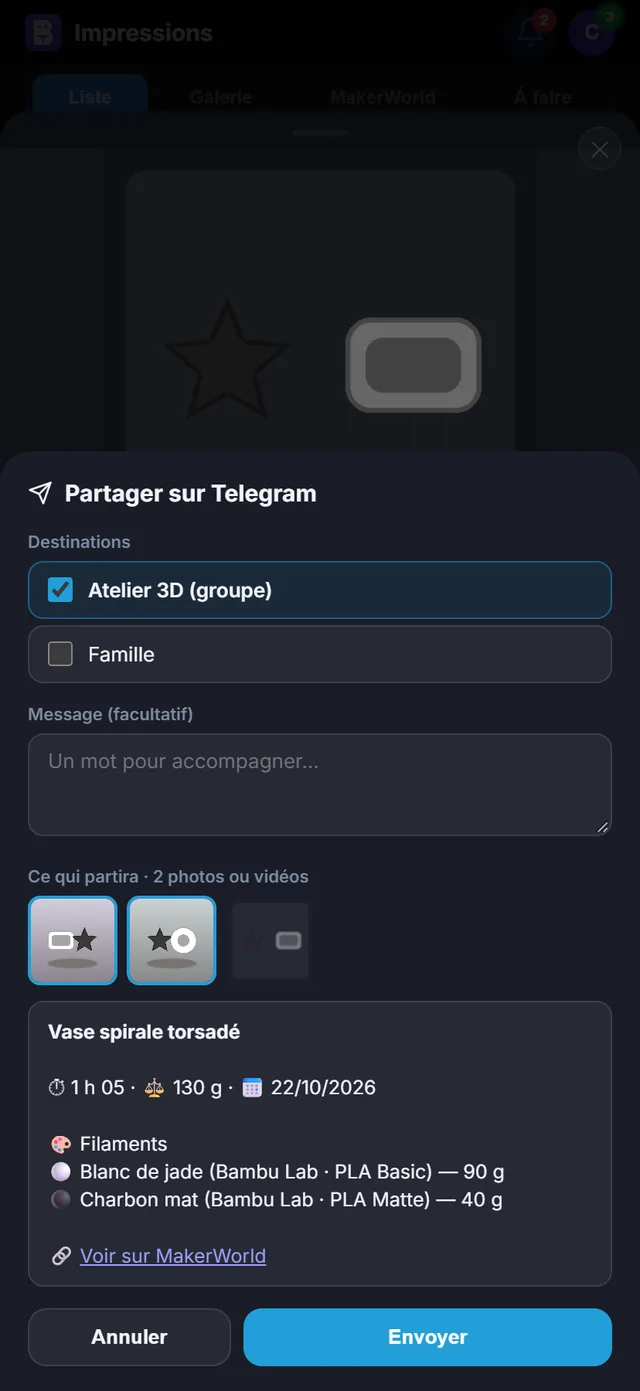
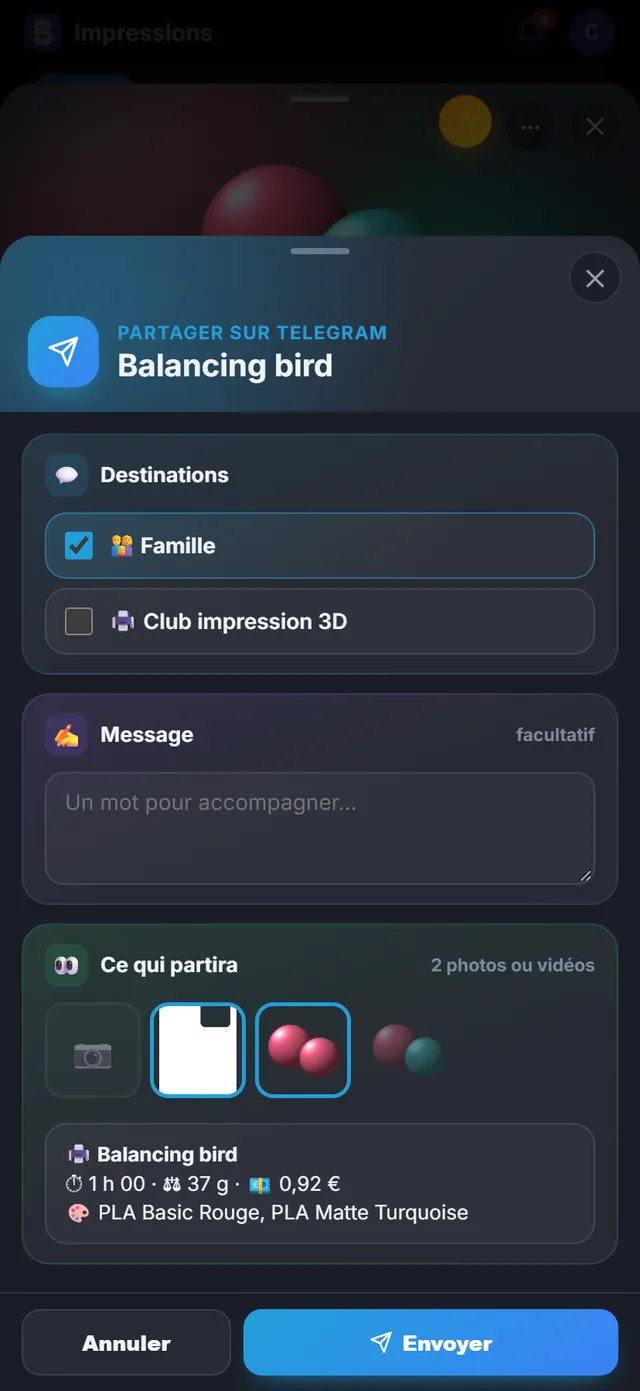
Partage Telegram : la fenêtre dans la coque des fiches (en-tête bleu Telegram, cartes Destinations, Message, Ce qui partira)

diff --git a/frontend/src/components/ShareSheet.jsx b/frontend/src/components/ShareSheet.jsx
@@ -4,6 +4,7 @@ import { createPortal } from "react-dom";
 import { Send } from "lucide-react";
 import client, { apiUrl } from "../api/client";
 import { useShares } from "../store/shares";
+import { FSheet, FCard, fBtn } from "./FicheKit";
 
 // Partage Telegram d'une impression ou d'un groupe : choix de la destination,
 // message facultatif, et APERCU exact de ce qui partira (la legende vient du
@@ -58,106 +59,100 @@ export default function ShareSheet({ kind, id, onClose }) {
   const max = preview?.album_max || 10;
   const nMedia = pick ? pick.length : preview?.media?.length || 0;
   const toggle = (mid) => setPick(p => p.includes(mid) ? p.filter(x => x !== mid) : p.length < max ? [...p, mid] : p);
-  const thumb = { width: 58, height: 58, borderRadius: 8, objectFit: "cover", cursor: "pointer", display: "block" };
+  const thumb = { width: 62, height: 62, borderRadius: 12, objectFit: "cover", cursor: "pointer", display: "block", boxSizing: "border-box" };
+  const T = "#229ED9";
+  const canSend = dests.length > 0 && !preview?.error;
   return createPortal(
-    <div onClick={onClose} style={{ position:"fixed", inset:0, zIndex:1500, background:"rgba(0,0,0,0.6)",
-      display:"flex", alignItems:"flex-end", justifyContent:"center" }}>
-      <div onClick={e => e.stopPropagation()} style={{ background:"var(--sheet-bg)", borderRadius:"20px 20px 0 0",
-        width:"100%", maxWidth:520, maxHeight:"90dvh", overflowY:"auto", padding:"16px 18px",
-        paddingBottom:"calc(16px + env(safe-area-inset-bottom,0px))" }}>
-        <h3 style={{ fontSize:15, fontWeight:800, color:"var(--text)", margin:"0 0 12px",
-          display:"flex", alignItems:"center", gap:8 }}>
-          <Send size={16}/> Partager sur Telegram
-        </h3>
+    <FSheet onClose={onClose} z={1500} bottom={<>
+      <button onClick={onClose} style={{ ...fBtn, flex: 1 }}>{done ? "Fermer" : "Annuler"}</button>
+      {canSend && <button onClick={send} disabled={busy || !sel?.length || !!done}
+        style={{ ...fBtn, flex: 2, border: "none", color: busy && !done ? "var(--muted)" : "#fff",
+          cursor: busy || done ? "default" : "pointer", opacity: !sel?.length ? .55 : 1,
+          background: done ? "linear-gradient(135deg, #22C55E, #16A34A)" : busy ? "var(--surface2)" : `linear-gradient(135deg, ${T}, #3B82F6)`,
+          boxShadow: busy ? "none" : `0 8px 18px -10px ${T}` }}>
+        <Send size={15}/> {done ? `✓ Envoyé · ${done.destination}` : busy ? "Envoi…"
+          : sel?.length > 1 ? `Envoyer à ${sel.length} destinations` : "Envoyer"}</button>}
+    </>}>
+      <div style={{ padding: "52px 18px 16px", background: `radial-gradient(circle at 15% 40%, ${T}55, transparent 60%), linear-gradient(135deg, ${T}22, transparent 70%), var(--surface2)` }}>
+        <div style={{ display: "flex", alignItems: "center", gap: 12 }}>
+          <span style={{ width: 46, height: 46, borderRadius: 15, flexShrink: 0, display: "flex", alignItems: "center", justifyContent: "center",
+            background: `linear-gradient(135deg, ${T}, #3B82F6)`, boxShadow: `0 8px 18px -8px ${T}` }}><Send size={21} color="#fff"/></span>
+          <div style={{ minWidth: 0 }}>
+            <div style={{ fontSize: 12, fontWeight: 900, letterSpacing: ".06em", textTransform: "uppercase", color: T }}>Partager sur Telegram</div>
+            <div style={{ fontSize: 20, fontWeight: 900, color: "var(--text)", lineHeight: 1.2, overflowWrap: "anywhere" }}>
+              {preview?.title || (kind === "group" ? "Ce groupe" : "Cette impression")}</div>
+          </div>
+        </div>
+      </div>
 
+      <div style={{ padding: "14px 14px 18px", display: "flex", flexDirection: "column", gap: 12 }}>
         {!preview ? (
-          <p style={{ fontSize:12, color:"var(--muted)" }}>Préparation…</p>
+          <p style={{ fontSize: 13, color: "var(--muted)", textAlign: "center", padding: 16 }}>Préparation…</p>
         ) : preview.error ? (
-          <p style={{ fontSize:12, color:"#ef4444" }}>{preview.error}</p>
+          <p style={{ fontSize: 13, fontWeight: 700, color: "#ef4444" }}>{preview.error}</p>
         ) : dests.length === 0 ? (
-          <p style={{ fontSize:12.5, color:"var(--muted)", lineHeight:1.5 }}>
+          <p style={{ fontSize: 13, color: "var(--muted)", lineHeight: 1.5 }}>
             Aucune destination : relie ton compte et ajoute des discussions dans
             Paramètres › Notifs › Partage Telegram.
           </p>
         ) : (<>
-          <label style={{ display:"block", fontSize:11, fontWeight:600, color:"var(--muted)", marginBottom:4 }}>
-            Destinations
-          </label>
-          <div style={{ display:"flex", flexDirection:"column", gap:4, marginBottom:12 }}>
-            {dests.map(d => {
-              const on = sel?.includes(d.id);
-              return (
-                <label key={d.id} style={{ display:"flex", alignItems:"center", gap:10, padding:"8px 12px",
-                  borderRadius:10, cursor:"pointer",
-                  background: on ? "rgba(34,158,217,0.10)" : "var(--surface2)",
-                  border: `1px solid ${on ? "rgba(34,158,217,0.45)" : "var(--border)"}` }}>
-                  <input type="checkbox" checked={!!on} style={{ accentColor:"#229ED9", width:16, height:16 }}
-                    onChange={() => setSel(s => on ? s.filter(x => x !== d.id) : [...(s || []), d.id])}/>
-                  <span style={{ fontSize:13, color:"var(--text)", fontWeight: on ? 600 : 400 }}>{d.label}</span>
-                </label>
-              );
-            })}
-          </div>
-
-          <label style={{ display:"block", fontSize:11, fontWeight:600, color:"var(--muted)", marginBottom:4 }}>
-            Message (facultatif)
-          </label>
-          <textarea value={message} onChange={e => setMessage(e.target.value)} rows={3}
-            placeholder="Un mot pour accompagner…"
-            style={{ width:"100%", boxSizing:"border-box", background:"var(--surface2)", border:"1px solid var(--border)",
-              borderRadius:10, padding:"9px 12px", fontSize:13, color:"var(--text)", resize:"vertical",
-              fontFamily:"inherit", marginBottom:12 }}/>
-
-          <div style={{ fontSize:11, fontWeight:600, color:"var(--muted)", marginBottom:4 }}>
-            Ce qui partira · {nMedia ? `${nMedia} photo${nMedia > 1 ? "s" : ""} ou vidéo${nMedia > 1 ? "s" : ""}` : "texte seul"}
-            {pick?.includes("camera") && " · dont la caméra en direct"}
-          </div>
-          {/* Medias joints : touche pour retirer ou ajouter, 10 au plus (limite Telegram). */}
-          {(preview.pool?.length > 0 || preview.live) && (
-            <div style={{ display:"flex", gap:6, flexWrap:"wrap", marginBottom:10 }}>
-              {preview.live && (
-                <div onClick={() => toggle("camera")} title="Caméra en direct, capturée à l'envoi"
-                  style={{ ...thumb, display:"flex", alignItems:"center", justifyContent:"center", fontSize:22,
-                    background:"var(--surface2)", border: pick?.includes("camera") ? "2px solid #229ED9" : "2px solid transparent",
-                    opacity: pick?.includes("camera") ? 1 : 0.4 }}>📷</div>
-              )}
-              {(preview.pool || []).map(m => {
-                const on = pick?.includes(m.id);
-                const st = { ...thumb, border: on ? "2px solid #229ED9" : "2px solid transparent", opacity: on ? 1 : 0.4 };
-                return m.video
-                  ? <video key={m.id} src={apiUrl(m.url.slice(7))} muted playsInline preload="metadata" onClick={() => toggle(m.id)} style={st}/>
-                  : <img key={m.id} src={apiUrl(m.url.slice(7))} alt="" onClick={() => toggle(m.id)} style={st}/>;
+          <FCard t="Destinations" i="💬" c={T}>
+            <div style={{ display: "flex", flexDirection: "column", gap: 6, marginTop: 6 }}>
+              {dests.map(d => {
+                const on = sel?.includes(d.id);
+                return (
+                  <label key={d.id} style={{ display: "flex", alignItems: "center", gap: 10, padding: "10px 12px",
+                    borderRadius: 14, cursor: "pointer",
+                    background: on ? `linear-gradient(135deg, ${T}26, transparent 70%), var(--surface)` : "var(--surface)",
+                    border: `1px solid ${on ? `${T}88` : "var(--border)"}` }}>
+                    <input type="checkbox" checked={!!on} style={{ accentColor: T, width: 18, height: 18 }}
+                      onChange={() => setSel(s => on ? s.filter(x => x !== d.id) : [...(s || []), d.id])}/>
+                    <span style={{ fontSize: 14, color: "var(--text)", fontWeight: on ? 800 : 600 }}>{d.label}</span>
+                  </label>
+                );
               })}
             </div>
-          )}
-          {/* Legende construite par le serveur, contenu deja echappe : seules
-              ses balises <b> et <a> sont interpretees. */}
-          <style>{`.bn-cap blockquote{margin:0;padding:6px 10px;border-left:3px solid #229ED9;
-            background:rgba(34,158,217,0.10);border-radius:4px;white-space:pre-wrap}`}</style>
-          <div className="bn-cap" style={{ padding:"10px 12px", borderRadius:10, background:"var(--surface2)",
-            border:"1px solid var(--border)", fontSize:12.5, color:"var(--text)", whiteSpace:"pre-wrap",
-            lineHeight:1.45, marginBottom:14, wordBreak:"break-word" }}
-            dangerouslySetInnerHTML={{ __html: preview.caption_html }}/>
-        </>)}
+          </FCard>
 
-        <div style={{ display:"flex", gap:8 }}>
-          <button onClick={onClose} style={{ flex:1, padding:10, borderRadius:12, border:"1px solid var(--border)",
-            background:"var(--surface2)", color:"var(--text)", fontSize:13, fontWeight:700, cursor:"pointer" }}>
-            {done ? "Fermer" : "Annuler"}
-          </button>
-          {dests.length > 0 && !preview?.error && (
-            <button onClick={send} disabled={busy || !sel?.length || !!done}
-              style={{ flex:2, padding:10, borderRadius:12, border:"none", fontSize:13, fontWeight:700,
-                cursor: busy || done ? "default" : "pointer",
-                background: done ? "#22c55e" : busy ? "var(--surface2)" : "#229ED9",
-                color: busy && !done ? "var(--muted)" : "white" }}>
-              {done ? `✓ Envoyé · ${done.destination}` : busy ? "Envoi…"
-                : sel?.length > 1 ? `Envoyer à ${sel.length} destinations` : "Envoyer"}
-            </button>
-          )}
-        </div>
+          <FCard t="Message" i="✍" c="#8B5CF6" aside={<span style={{ fontSize: 11.5, fontWeight: 700, color: "var(--muted)" }}>facultatif</span>}>
+            <textarea value={message} onChange={e => setMessage(e.target.value)} rows={3}
+              placeholder="Un mot pour accompagner…"
+              style={{ width: "100%", boxSizing: "border-box", background: "var(--surface)", border: "1px solid var(--border)", marginTop: 6,
+                borderRadius: 12, padding: "10px 12px", fontSize: 14, color: "var(--text)", resize: "vertical", fontFamily: "inherit" }}/>
+          </FCard>
+
+          <FCard t="Ce qui partira" i="👀" c="#22C55E" aside={<span style={{ fontSize: 11.5, fontWeight: 800, color: "var(--muted)" }}>
+            {nMedia ? `${nMedia} photo${nMedia > 1 ? "s" : ""} ou vidéo${nMedia > 1 ? "s" : ""}` : "texte seul"}{pick?.includes("camera") && " · caméra"}</span>}>
+            {/* Medias joints : touche pour retirer ou ajouter, 10 au plus (limite Telegram). */}
+            {(preview.pool?.length > 0 || preview.live) && (
+              <div style={{ display: "flex", gap: 6, flexWrap: "wrap", margin: "6px 0 10px" }}>
+                {preview.live && (
+                  <div onClick={() => toggle("camera")} data-tip="Caméra en direct, capturée à l'envoi"
+                    style={{ ...thumb, display: "flex", alignItems: "center", justifyContent: "center", fontSize: 24,
+                      background: "var(--surface)", border: pick?.includes("camera") ? `2.5px solid ${T}` : "2px solid var(--border)",
+                      opacity: pick?.includes("camera") ? 1 : 0.45 }}>📷</div>
+                )}
+                {(preview.pool || []).map(m => {
+                  const on = pick?.includes(m.id);
+                  const st = { ...thumb, border: on ? `2.5px solid ${T}` : "2px solid transparent", opacity: on ? 1 : 0.4 };
+                  return m.video
+                    ? <video key={m.id} src={apiUrl(m.url.slice(7))} muted playsInline preload="metadata" onClick={() => toggle(m.id)} style={st}/>
+                    : <img key={m.id} src={apiUrl(m.url.slice(7))} alt="" onClick={() => toggle(m.id)} style={st}/>;
+                })}
+              </div>
+            )}
+            {/* Legende construite par le serveur, contenu deja echappe : seules
+                ses balises <b> et <a> sont interpretees. */}
+            <style>{`.bn-cap blockquote{margin:0;padding:6px 10px;border-left:3px solid #229ED9;
+              background:rgba(34,158,217,0.10);border-radius:6px;white-space:pre-wrap}`}</style>
+            <div className="bn-cap" style={{ padding: "10px 12px", borderRadius: 14, background: "var(--surface)", marginTop: 6,
+              border: "1px solid var(--border)", fontSize: 13, color: "var(--text)", whiteSpace: "pre-wrap",
+              lineHeight: 1.45, wordBreak: "break-word" }}
+              dangerouslySetInnerHTML={{ __html: preview.caption_html }}/>
+          </FCard>
+        </>)}
       </div>
-    </div>,
+    </FSheet>,
     document.body
   );
 }

diff --git a/backend/guide/pages/impressions.html b/backend/guide/pages/impressions.html
@@ -259,7 +259,7 @@
       <li>Coche une ou plusieurs <b>Destinations</b> (l'appli se souvient de ton dernier choix).</li>
       <li>Ajoute si tu veux un <b>Message</b> : l'aperçu se met à jour en direct.</li>
       <li>Sous <b>Ce qui partira</b>, touche les vignettes pour ajouter ou retirer des photos (10 au plus). Si la caméra est disponible, une tuile 📷 ajoute une photo en direct prise au moment de l'envoi.</li>
-      <li>Touche <span class="ui">Envoyer</span> (ou « Envoyer à 2 destinations ») : l'envoi part en arrière-plan, une pastille en haut de l'écran en suit l'avancement.</li>
+      <li>Touche <span class="ui">Envoyer</span> en bas (ou « Envoyer à 2 destinations ») : l'envoi part en arrière-plan, une pastille en haut de l'écran en suit l'avancement.</li>
     </ol>
     <p>Sans destination, la fenêtre l'indique : relie ton compte Telegram et ajoute des discussions dans <a href="#notifications-telegram">Paramètres → Notifs → Partage Telegram</a>.</p>
   </section>
